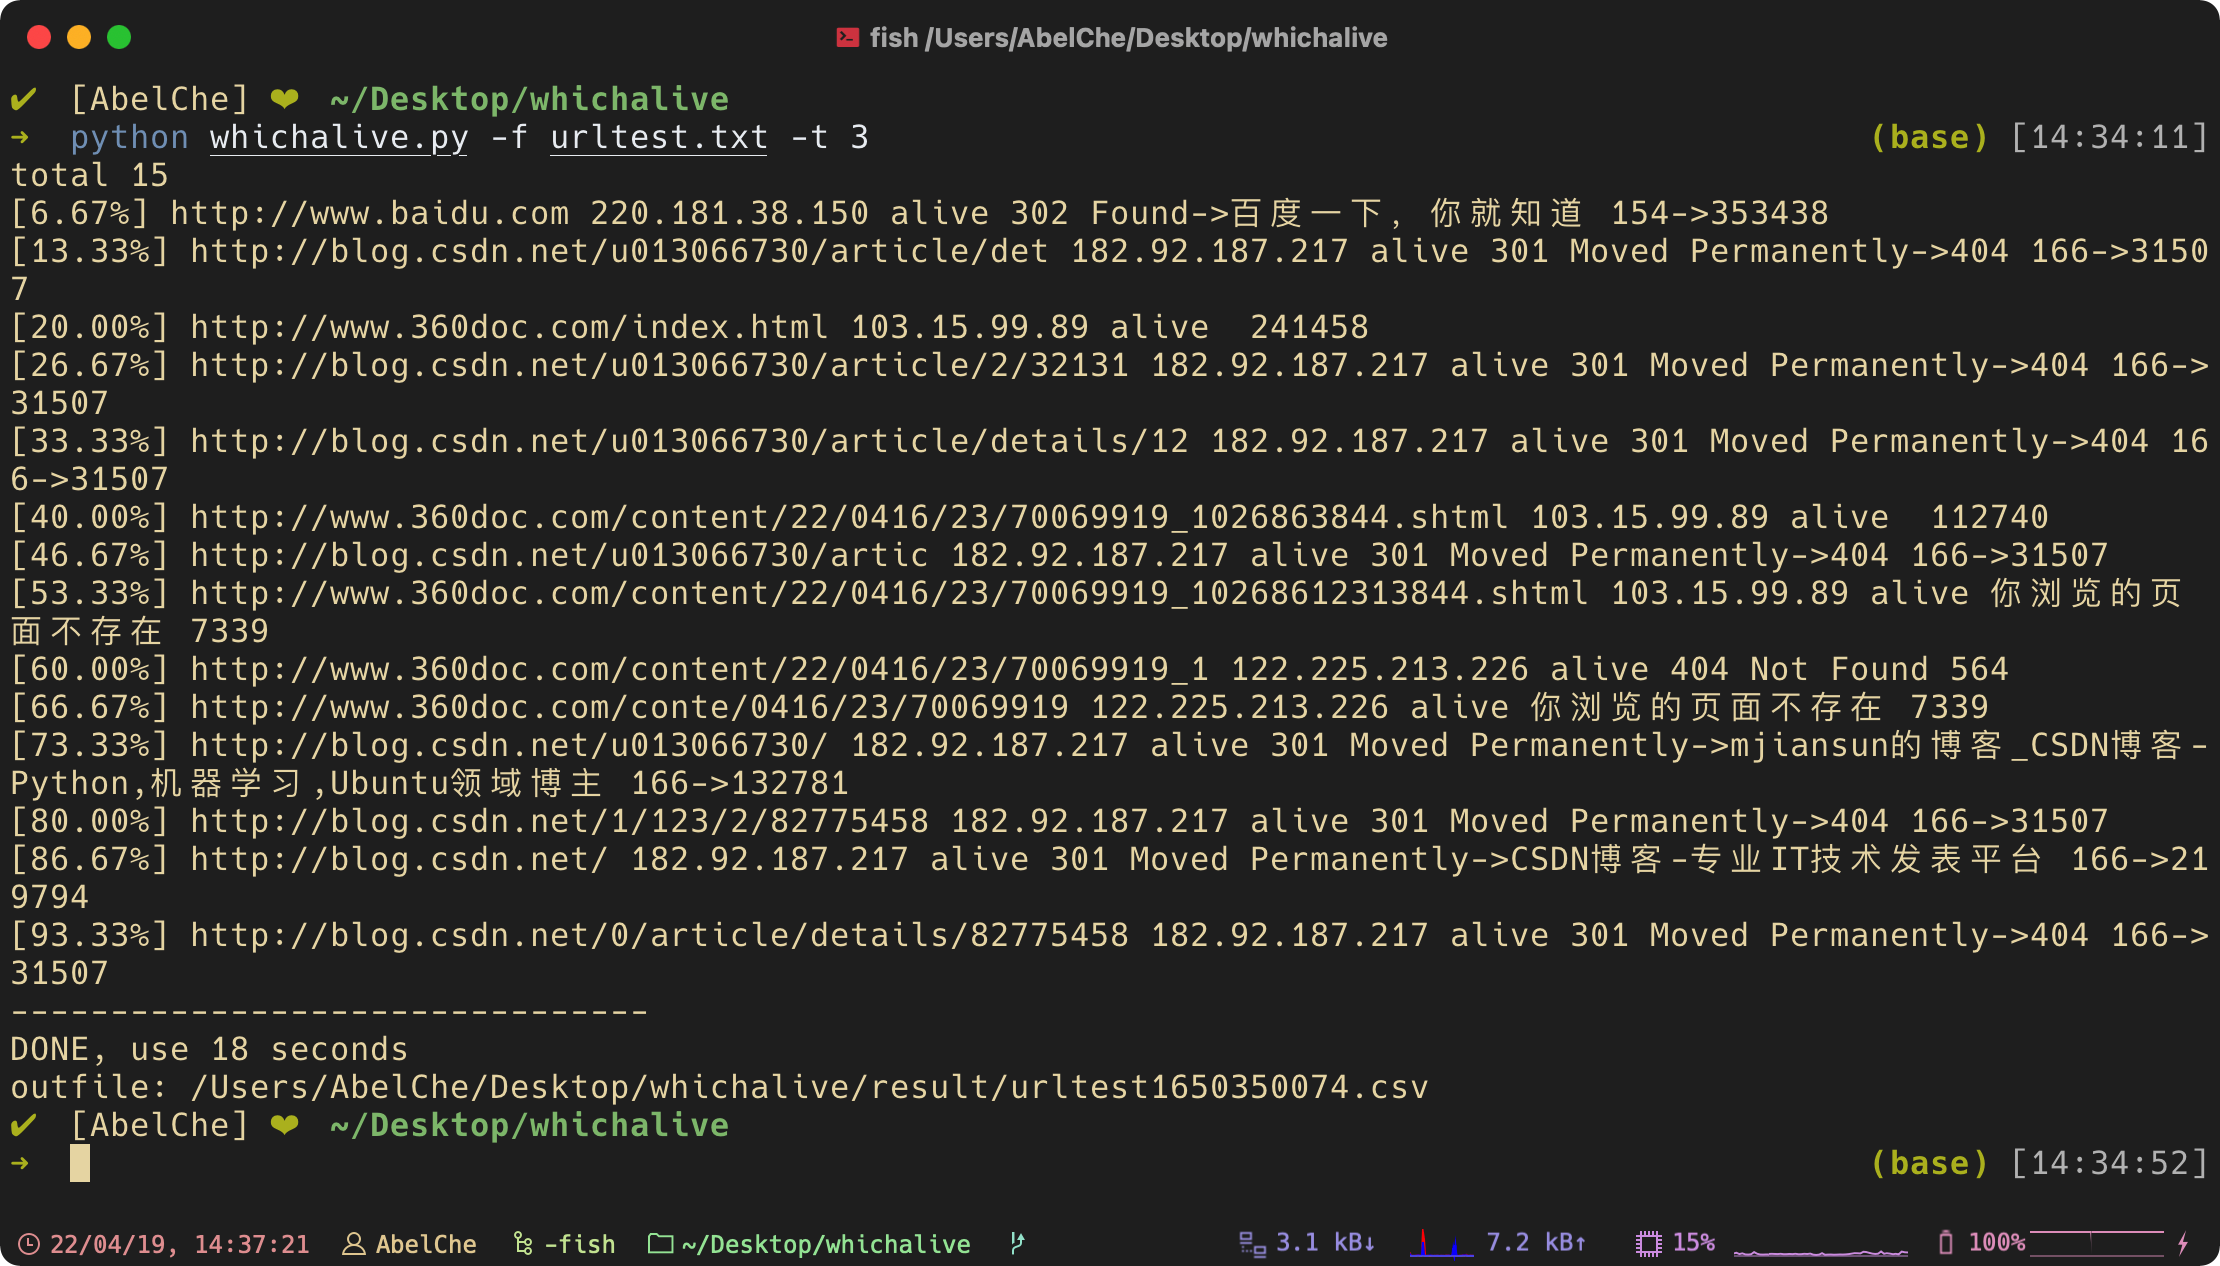
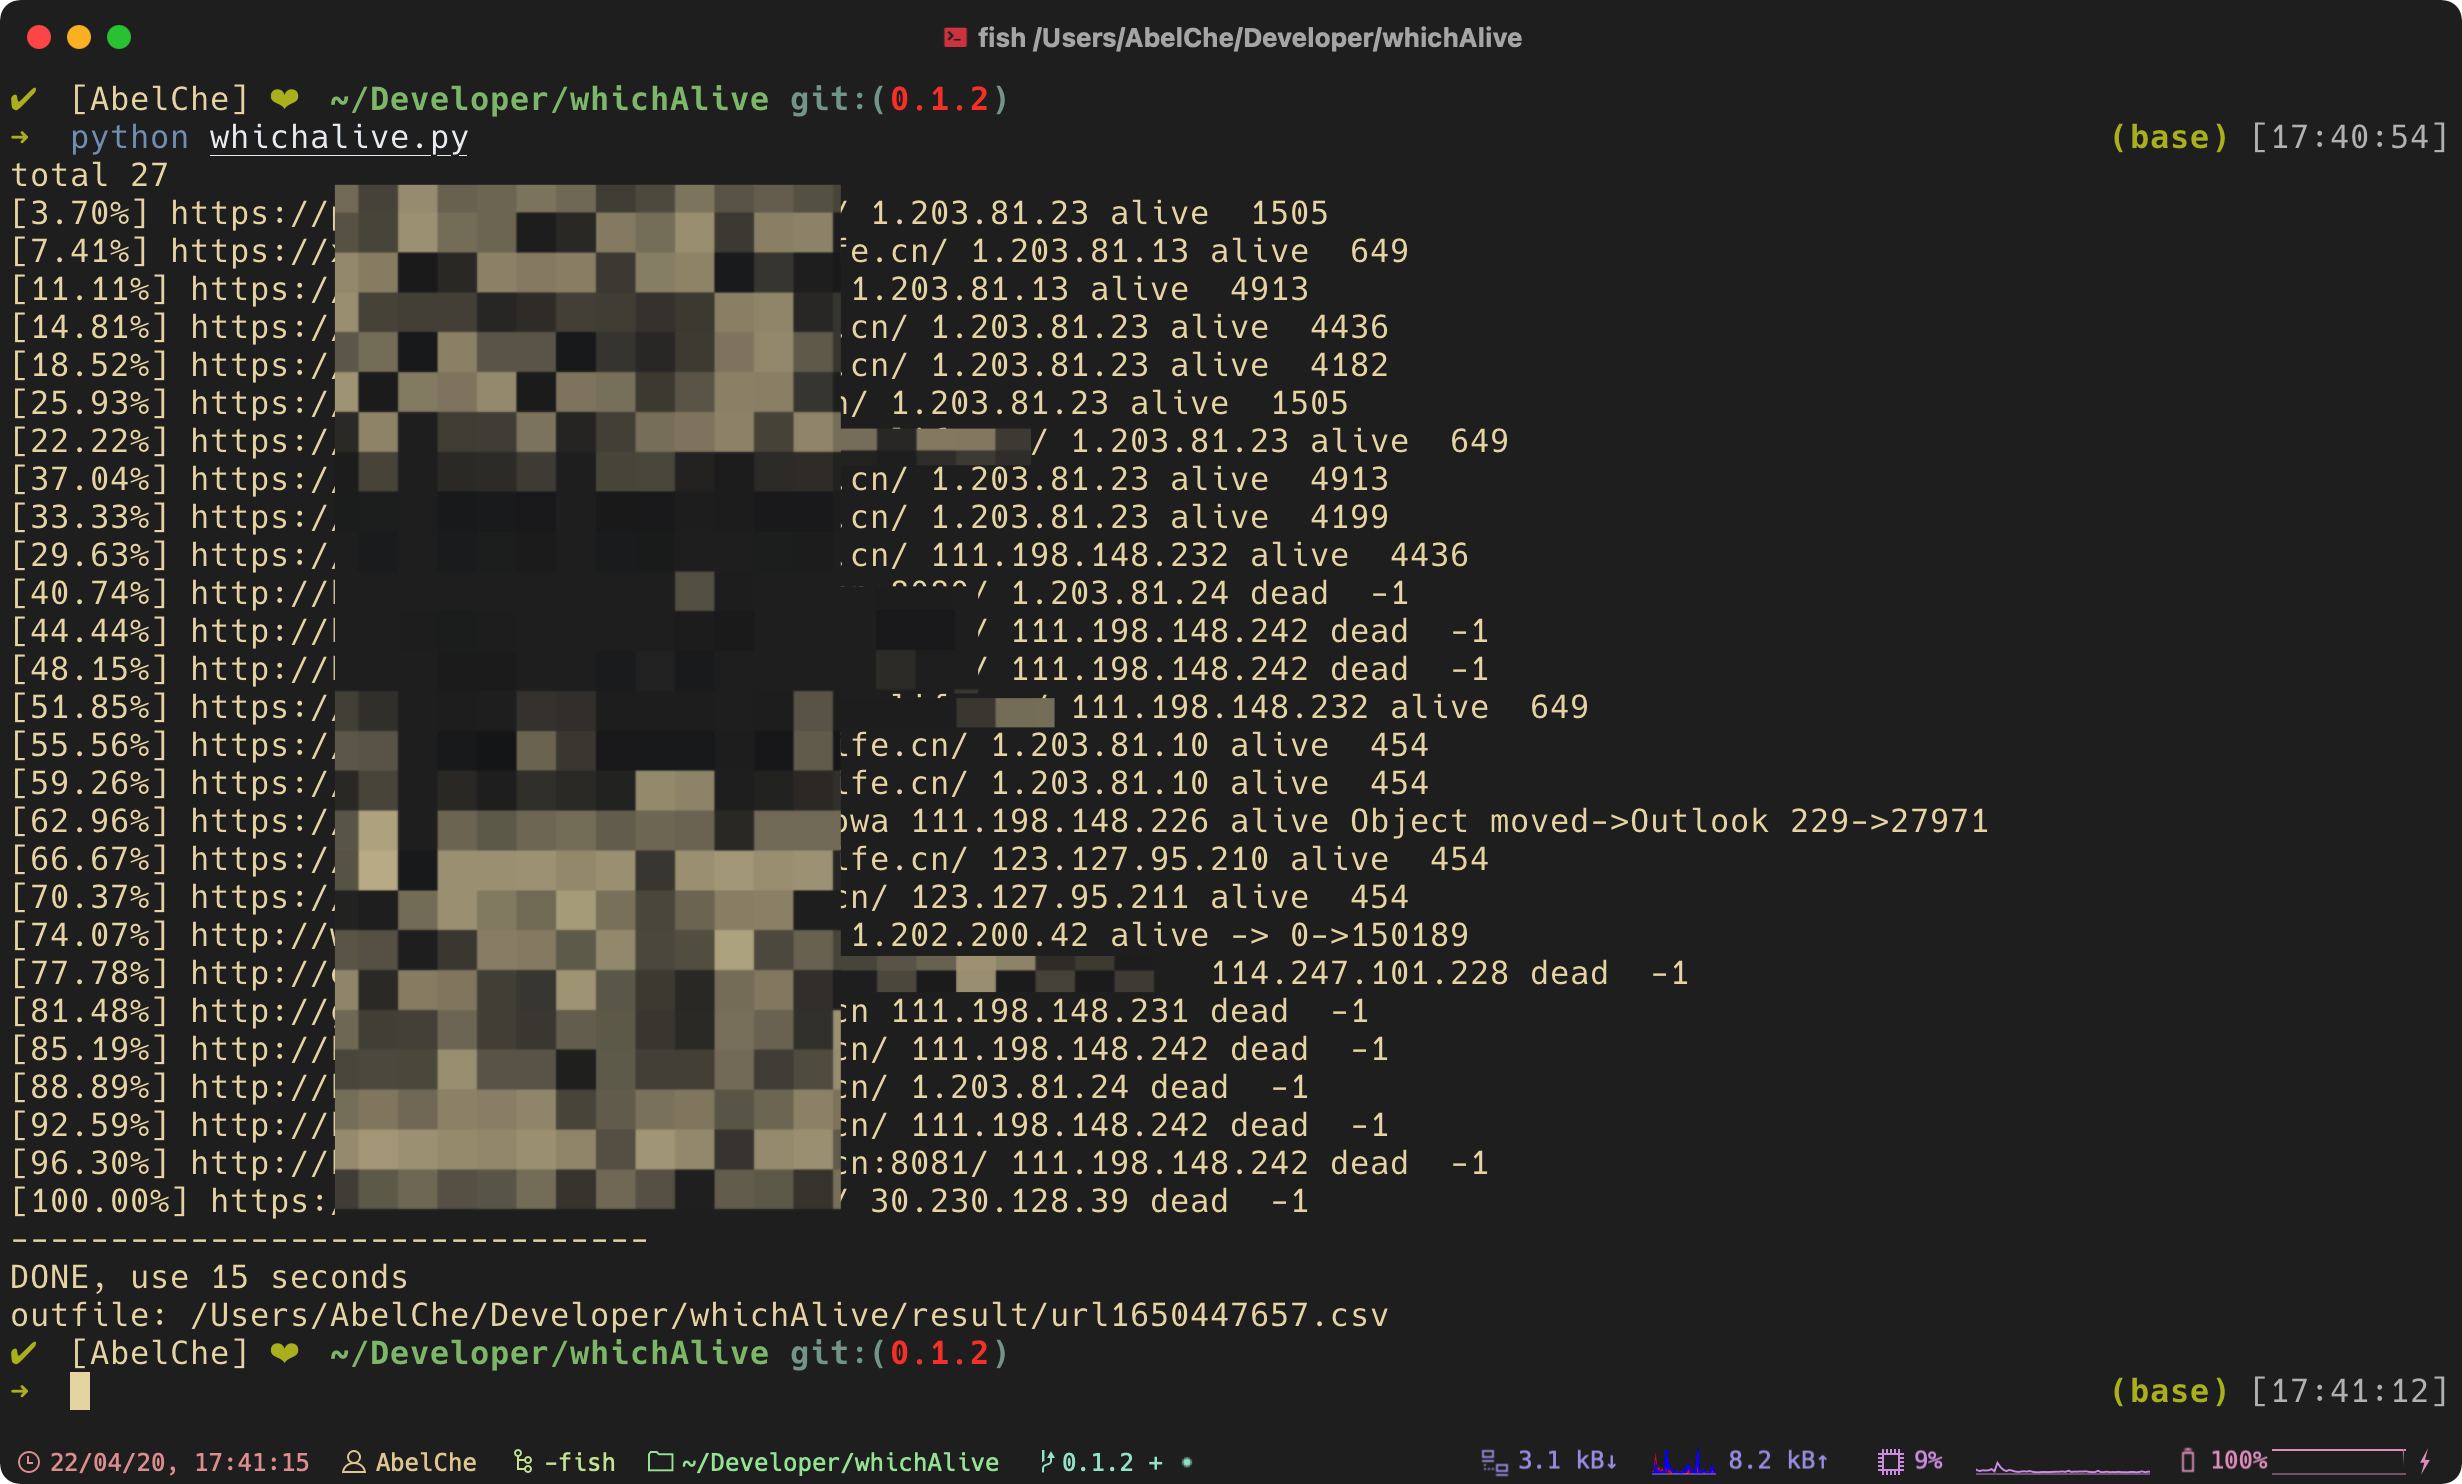
0.1.2 bug fix

diff --git a/whichalive.py b/whichalive.py
@@ -6,6 +6,7 @@ import re
 import socket
 import time
 import urllib
+import urllib.parse
 from concurrent.futures import ALL_COMPLETED, ThreadPoolExecutor, wait
 
 import requests
@@ -18,10 +19,12 @@ class whichAlive(object):
     def __init__(self, file, THREAD_POOL_SIZE=10, allow_redirect=False, PROXY={}):
         self.file = file
         self.filename = ''.join(file.split('/')[-1].split('.')[:-1])
-        self.outfilename = f'{self.filename}{str(time.time()).split(".")[0]}.csv'
+        self.timenow = str(time.time()).split(".")[0]
+        self.outfilename = f'{self.filename}{self.timenow}.csv'
+        self.errorfilename = f'error_{self.filename}{self.timenow}.txt'
         self.urllist = self.__urlfromfile()
         self.tableheader = ['no', 'url', 'ip', 'state',
-                            'state_code', 'title', 'server', 'length']
+                            'state_code', 'title', 'server', 'length', 'other']
         self.HEADER = {
             'User-Agent': 'Mozilla/5.0 (Windows NT 10.0; Win64; x64) AppleWebKit/537.36 (KHTML, like Gecko) Chrome/74.0.3729.169 Safari/537.36',
         }
@@ -45,15 +48,25 @@ class whichAlive(object):
             print(f'--------------------------------\nDONE, use {(end_time - start_time).seconds} seconds')
             print(f'outfile: {os.path.join(os.path.abspath(os.path.dirname(__file__)), "result", self.outfilename)}')
 
-    def __scan(self, url, no):
+    def __scan(self, url, no, tryagainflag=False):
+        def callback(no, url, ip, state, state_code, title, server, length, other):
+            self.completedurl += 1
+            thisline = [no, url, ip, state, state_code, title, server, length, other]
+            nowpercent = '%.2f'%((self.completedurl/self.allurlnumber)*100)
+            print(f'[{nowpercent}%] {url} {ip} {state} {title} {length}')
+            self.__writetofile(thisline)
+
+        ip = ''
+        state = ''
         state_code = -1
         title = ''
+        server = ''
         length = -1
+        other = ''
         try:
-            if DEBUG:
-                print(f'[+] {no} {url}')
+            if DEBUG: print(f'[+] {no} {url}')
             u = urllib.parse.urlparse(url)
-            ip = self.__getwebip(u.netloc)
+            ip = self.__getwebip(u.netloc.split(':')[0])
             if self.allow_redirect:
                 r = requests.get(url=url, headers=self.HEADER, timeout=15, verify=False, proxies=self.PROXY)
                 state = 'alive'
@@ -68,17 +81,28 @@ class whichAlive(object):
                 title = self.__getwebtitle(r)
                 length = self.__getweblength(r)
                 server = self.__getwebserver(r)
-        except requests.exceptions.ConnectTimeout:
+            callback(no, url, ip, state, state_code, title, server, length, other)
+        except requests.exceptions.ConnectTimeout as e:
+            if DEBUG: print(f'[ConnectTimeout] {url} {e}')
+            self.__errorreport(str(e))
             state = 'dead'
-        except requests.exceptions.ReadTimeout:
+            callback(no, url, ip, state, state_code, title, server, length, 'ConnectTimeout')
+        except requests.exceptions.ReadTimeout as e:
+            if DEBUG: print(f'[ReadTimeout] {url} {e}')
+            self.__errorreport(str(e))
             state = 'dead'
-        except requests.exceptions.ConnectionError:
+            callback(no, url, ip, state, state_code, title, server, length, 'ReadTimeout')
+        except requests.exceptions.ConnectionError as e:
+            if DEBUG: print(f'[ConnectionError] {url} {e}')
+            self.__errorreport(str(e))
             state = 'dead'
-        self.completedurl += 1
-        thisline = [no, url, ip, state, state_code, title, server, length]
-        nowpercent = '%.2f'%((self.completedurl/self.allurlnumber)*100)
-        print(f'[{nowpercent}%] {url} {ip} {state} {title} {length}')
-        self.__writetofile(thisline)
+            callback(no, url, ip, state, state_code, title, server, length, 'ConnectionError')
+        except Exception as e:
+            if DEBUG: print(f'[ERROR] {no} {url} {e}')
+            self.__errorreport(str(e))
+            if TRYAGAIN and not tryagainflag:
+                self.__scan(url, no, True)
+            callback(no, url, ip, state, state_code, title, server, length, 'e')
 
     def __getwebtitle(self, r):
         try:
@@ -121,6 +145,11 @@ class whichAlive(object):
         writer.writerow(data)
         f.close()
 
+    def __errorreport(self, message):
+        f = open(f'error/{self.errorfilename}', 'a')
+        f.write(message+'\n')
+        f.close()
+
 
 if __name__ == '__main__':
     parser = argparse.ArgumentParser(usage='whichAlive usage')
@@ -128,9 +157,11 @@ if __name__ == '__main__':
     parser.add_argument('--proxy', default='', help='Set proxy, such as 127.0.0.1:8080')
     parser.add_argument('-t', '--thread', default=10, type=int, help='Set max threads, default 10')
     parser.add_argument('-d', '--debug', default=False, action='store_true', help='print some debug information')
+    parser.add_argument('--try-again', default=False, action='store_true', help='If some error, try again scan that url once', dest='tryagain')
     args = parser.parse_args()
 
     DEBUG = args.debug
+    TRYAGAIN = args.tryagain
 
     w = whichAlive(
         file=args.file,
@@ -139,4 +170,3 @@ if __name__ == '__main__':
         PROXY={'http': args.proxy, 'https': args.proxy}
     )
     w.run()
-

diff --git a/updatelog.md b/updatelog.md
@@ -1,0 +1,5 @@
+# 0.1.2
+- 修复获取ip bug
+- 增加报错捕获
+- 输出内容增加错误信息
+- 修复死站判断逻辑问题、内容输出bug
